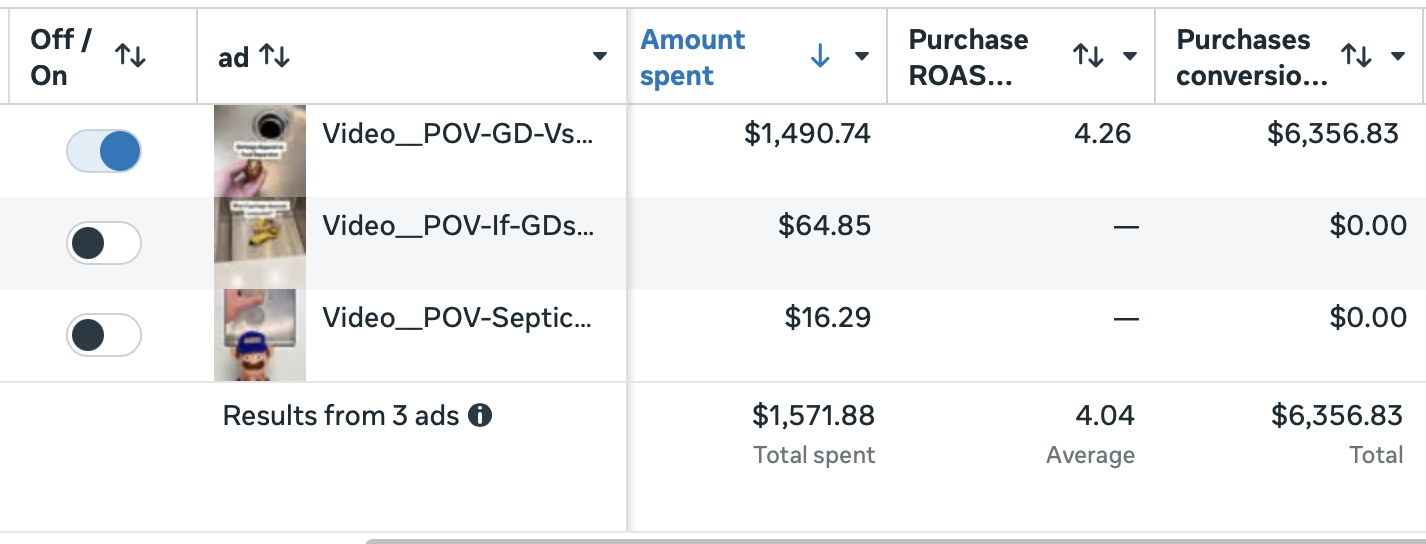
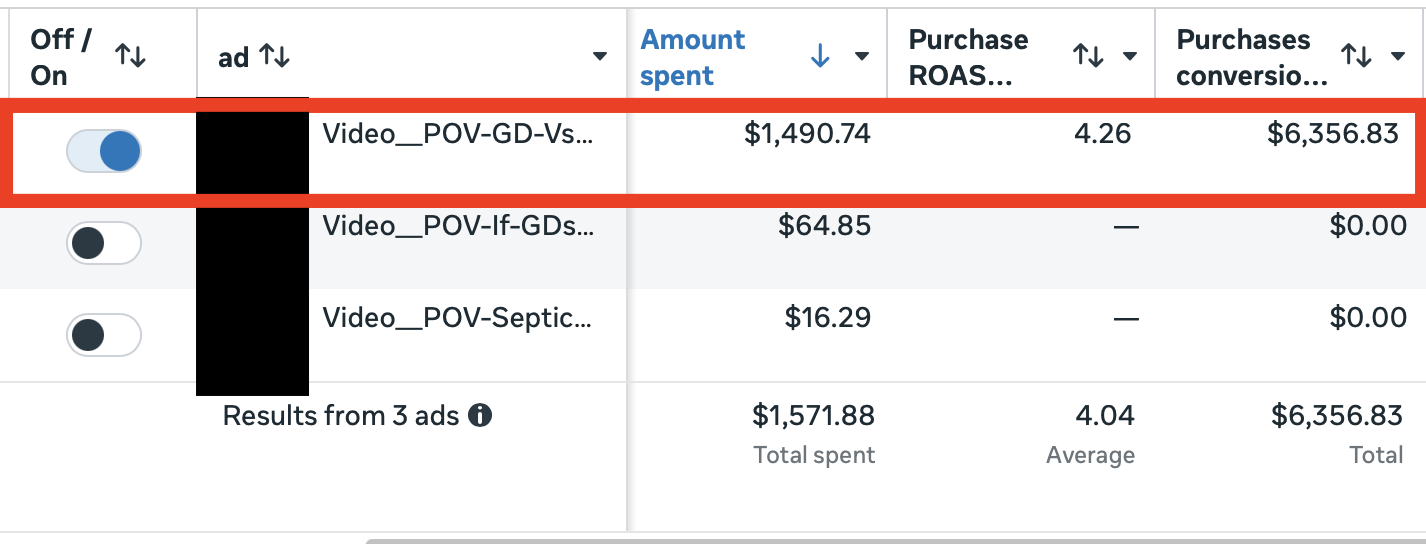
Replace proof screenshots with winner-highlighted versions

Changed region(s): [[0.0, 0.1562, 1.0, 0.75]]

diff --git a/src/app/beat-your-best-ad/page.tsx b/src/app/beat-your-best-ad/page.tsx
@@ -16,15 +16,15 @@ const SPOTS_LEFT = 5;
 const proofScreenshots = [
   {
     file: "ads-proof-01.png",
-    alt: "Meta Ads Manager: 4.04 average ROAS across three video ads, $6,356 revenue from $1,571 spend",
+    alt: "Meta Ads Manager: winning video ad drove 4.26 ROAS on $1,490.74 spend, producing $6,356.83 revenue",
   },
   {
     file: "ads-proof-02.png",
-    alt: "Meta Ads Manager: 4.12 average ROAS across four static ads, $6,066 revenue from $1,471 spend",
+    alt: "Meta Ads Manager: winning static ad drove 5.87 ROAS on $1,033.24 spend, producing $6,066.22 revenue",
   },
   {
     file: "ads-proof-03.png",
-    alt: "Meta Ads Manager: 1.29 average ROAS across three video ads, $6,149 revenue from $4,779 spend",
+    alt: "Meta Ads Manager: winning video ad drove 1.29 ROAS on $4,653.99 spend, producing $5,982.77 revenue",
   },
 ];
 
